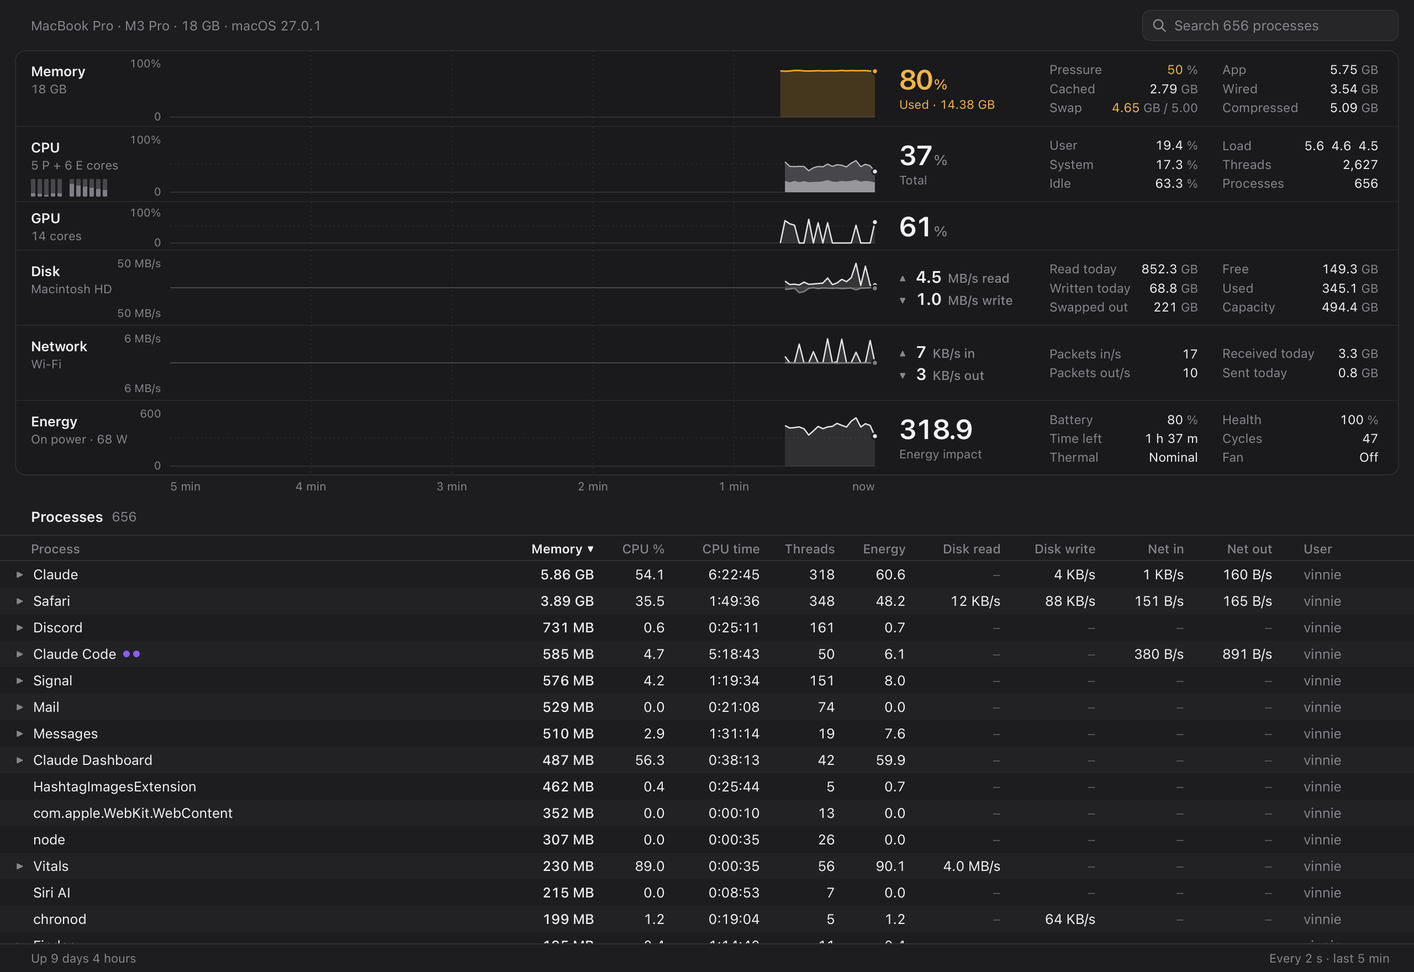
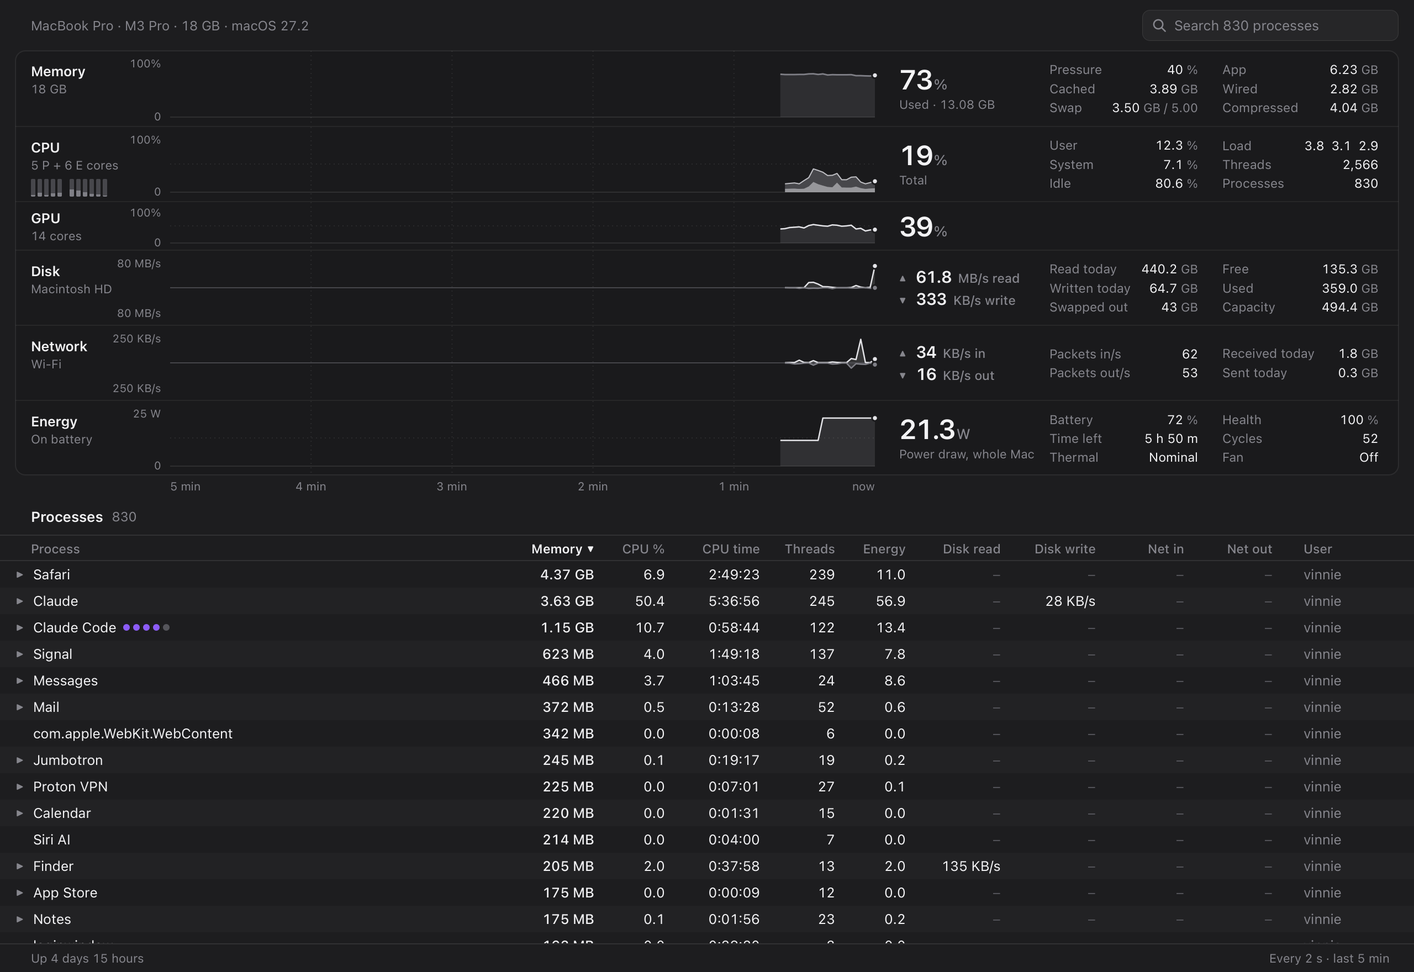
Energy card: show the whole Mac's power draw in watts
The card showed the energy impact score (sum of per-app CPU% plus wakeups)
with no unit, so 129.1 read as nothing in particular. It now shows
PowerTelemetryData SystemLoad in W, with a powerW history for the chart.
Macs without a battery keep the score, labelled "Energy score". The app
list keeps the per-app score; Help explains both. The charger line says
"W charger" so it isn't read as the draw.

diff --git a/Resources/sample.js b/Resources/sample.js
@@ -40,7 +40,7 @@
       history: series(120, 3, function (t, r) { return 31 + Math.sin(t * 9) * 5 + (r() - .5) * 12; })
     },
     gpu: { pct: 9, history: series(120, 5, function (t, r) { return 8 + (r() - .5) * 6 + (t > .7 && t < .75 ? 7 : 0); }) },
-    energy: { batteryPct: 100, pluggedIn: true, charging: false, fullyCharged: true, adapterWatts: 96, cycles: 47, healthPct: 100,
+    energy: { watts: 14.2, batteryPct: 100, pluggedIn: true, charging: false, fullyCharged: true, adapterWatts: 96, cycles: 47, healthPct: 100,
       minutesLeft: 380, thermal: "nominal", fanRPM: 0, impact: null },
     disk: { volume: "Macintosh HD", totalBytes: 494.4e9, usedBytes: 400.1e9, freeBytes: 94.3e9, readBps: 14.2e6, writeBps: 38.6e6,
       readTodayBytes: 61.2e9, writtenTodayBytes: 97.4e9,
@@ -99,14 +99,15 @@
     diskWriteBps: live(13, function (t, r) { var b = r() < .12 ? 30 + r() * 45 : 0; return (24 + r() * 16 + b + 20 * bump(t, .7, .02)) * 1e6; }, snap.disk.writeBps),
     netInBps: live(17, function (t, r) { var b = r() < .1 ? 2 + r() * 3.5 : 0; return (1.4 + r() * 1.6 + b + 3 * bump(t, .55, .03)) * 1e6; }, snap.network.inBps),
     netOutBps: live(19, function (t, r) { var b = r() < .06 ? .5 + r() * .8 : 0; return (.18 + r() * .25 + b) * 1e6; }, snap.network.outBps),
-    energyImpact: live(23, function (t, r) { return 82 + (r() - .5) * 12 + 26 * bump(t, .7, .025) + 10 * bump(t, .22, .02); }, snap.energy.impact, 10)
+    energyImpact: live(23, function (t, r) { return 82 + (r() - .5) * 12 + 26 * bump(t, .7, .025) + 10 * bump(t, .22, .02); }, snap.energy.impact, 10),
+    powerW: live(31, function (t, r) { return 11.5 + (r() - .5) * 2 + 9 * bump(t, .7, .025) + 3.5 * bump(t, .22, .02); }, snap.energy.watts, 10)
   };
   // like the real feed: the first point of a rate series has nothing to compare against
   ["diskReadBps", "diskWriteBps", "netInBps", "netOutBps"].forEach(function (k) { snap.live[k][0] = null; });
   var KEYS = Object.keys(snap.live).filter(function (k) { return k !== "stepSec"; });
 
   // ?fresh: right after launch, one point per series (?fresh=12 keeps 12)
-  // ?gaps: energy impact null while no page was showing (a long run of nulls), plus a short gap in CPU
+  // ?gaps: energy impact and watts null while no page was showing (a long run of nulls), plus a short gap in CPU
   var q = location.search + location.hash;
   var fresh = /fresh(?:=(\d+))?/.exec(q);
   if (fresh) {
@@ -119,6 +120,10 @@
     for (var i = 0; i < E.length - 18; i++) E[i] = null;
     for (i = E.length - 3; i < E.length; i++) E[i] = null;
     snap.energy.impact = null;
+    var W = snap.live.powerW;
+    for (i = 0; i < W.length - 18; i++) W[i] = null;
+    for (i = W.length - 3; i < W.length; i++) W[i] = null;
+    snap.energy.watts = null;
     var C = snap.live.cpuUserPct, Cs = snap.live.cpuSystemPct;
     for (i = 60; i < 75 && i < C.length; i++) { C[i] = null; Cs[i] = null; }
   }
@@ -149,11 +154,12 @@
       n.inBps = (1.4 + r() * 1.6 + (r() < .1 ? 2 + r() * 3.5 : 0)) * 1e6;
       n.outBps = (.18 + r() * .25 + (r() < .06 ? .5 + r() * .8 : 0)) * 1e6;
       if (e.impact != null || r() < .3) e.impact = Math.round((84 + (r() - .5) * 10) * 10) / 10;
+      if (e.watts != null || r() < .3) e.watts = Math.round((12 + (r() - .5) * 2.4) * 10) / 10;
       m.usedBytes = Math.max(15.6, Math.min(17.2, m.usedBytes / G + (r() - .5) * .12)) * G;
       push("pressurePct", m.pressurePct); push("memUsedPct", Math.round(m.usedBytes / m.totalBytes * 1000) / 10); push("swapUsedBytes", m.swapUsedBytes);
       push("cpuUserPct", c.userPct); push("cpuSystemPct", c.systemPct); push("gpuPct", snap.gpu.pct);
       push("diskReadBps", d.readBps); push("diskWriteBps", d.writeBps); push("netInBps", n.inBps); push("netOutBps", n.outBps);
-      push("energyImpact", e.impact);
+      push("energyImpact", e.impact); push("powerW", e.watts);
     }
   };
 })();

diff --git a/Resources/window.html b/Resources/window.html
@@ -150,7 +150,7 @@ table.pt{width:100%;border-collapse:collapse;table-layout:fixed;font-size:12.5px
   "use strict";
   var V = Vitals, F = V.F, $ = function (id) { return document.getElementById(id); };
   var GiB = V.GiB, isNum = V.isNum, CAP = V.CAP;
-  var snap = null, L = null, MS = [];
+  var snap = null, L = null, MS = [], useW = false;
 
   /* ================= strip charts ================= */
   function u(v, unit) { return v + "<small> " + unit + "</small>"; }
@@ -168,6 +168,7 @@ table.pt{width:100%;border-collapse:collapse;table-layout:fixed;font-size:12.5px
   function scaleLabel(v, unit) {
     if (unit === "%") return v + "%";
     if (unit === "Bps") { var p = F.rateParts(v); return p[0].replace(/\.0$/, "") + " " + p[1]; }
+    if (unit === "W") return +v.toFixed(1) + " W";
     return String(+v.toFixed(1));
   }
   function sevCls(st) { return st === "crit" ? "c" : st === "warn" ? "w" : ""; }
@@ -192,9 +193,10 @@ table.pt{width:100%;border-collapse:collapse;table-layout:fixed;font-size:12.5px
     { id: "net", opt: { type: "mirror", floor: 1e5, pad: 8 }, unit: "Bps",
       data: function () { return [L.netInBps, L.netOutBps]; },
       tag: function (i) { return pair(L.netInBps[i], L.netOutBps[i]); } },
+    // watts with a battery (renderReadouts sets useW and the unit); the energy impact score without one
     { id: "energy", opt: { type: "single", floor: 10, pad: 8 }, unit: "",
-      data: function () { return [L.energyImpact]; },
-      tag: function (i) { return isNum(L.energyImpact[i]) ? L.energyImpact[i].toFixed(1) : "–"; } }
+      data: function () { return [useW ? L.powerW : L.energyImpact]; },
+      tag: function (i) { var v = (useW ? L.powerW : L.energyImpact)[i]; return isNum(v) ? v.toFixed(1) + (useW ? " W" : "") : "–"; } }
   ];
   CH.forEach(function (c) {
     var row = $("ch-" + c.id);
@@ -220,6 +222,7 @@ table.pt{width:100%;border-collapse:collapse;table-layout:fixed;font-size:12.5px
 
   function drawCharts(s) {
     L = V.liveOf(s); MS = V.memSev(s, L);
+    useW = V.useWatts(s, L); CH[5].unit = useW ? "W" : "";
     var ms = V.memState(s);
     layout();
     CH.forEach(function (c) {
@@ -306,9 +309,9 @@ table.pt{width:100%;border-collapse:collapse;table-layout:fixed;font-size:12.5px
 
     var thermal = { nominal: "Nominal", fair: "Fair", serious: "Serious", critical: "Critical" }[e.thermal] || "–";
     var hasBatt = isNum(e.batteryPct);
-    $("sub-energy").textContent = e.pluggedIn ? "On power" + (e.adapterWatts ? " · " + e.adapterWatts + " W" : "") : hasBatt ? "On battery" : "";
-    var imp = V.now(e.impact, L.energyImpact);
-    CH[5].ro.innerHTML = bigOne(isNum(imp) ? imp.toFixed(1) : "–", "", "Energy impact") +
+    $("sub-energy").textContent = e.pluggedIn ? "On power" + (e.adapterWatts ? " · " + e.adapterWatts + " W charger" : "") : hasBatt ? "On battery" : "";
+    var pw = useW ? V.now(e.watts, L.powerW) : V.now(e.impact, L.energyImpact);
+    CH[5].ro.innerHTML = bigOne(isNum(pw) ? pw.toFixed(1) : "–", useW ? "W" : "", useW ? "Power draw, whole Mac" : "Energy score") +
       kv([hasBatt && ["Battery", u(F.pct(e.batteryPct), "%")], hasBatt && ["Time left", isNum(e.minutesLeft) ? F.hm(e.minutesLeft).replace(" min", " m") : "–"], ["Thermal", thermal]]) +
       kv([hasBatt && ["Health", u(F.pct(e.healthPct), "%")], hasBatt && ["Cycles", F.int(e.cycles)],
         isNum(e.fanRPM) && ["Fan", e.fanRPM > 0 ? u(F.int(e.fanRPM), "rpm") : "Off"]]);

diff --git a/Resources/help.html b/Resources/help.html
@@ -129,7 +129,7 @@ p.body b{color:var(--ink);font-weight:600}
     return '<div class="term' + (alert ? " alert sev-" + alert : "") + '"><div class="tt">' + t + '</div><div class="td">' + d + '</div><div class="tn">' + yours + "</div></div>";
   }
   V.onUpdate(function (s) {
-    var m = s.memory || {}, c = s.cpu || {}, d = s.disk || {}, h = s.host || {};
+    var m = s.memory || {}, c = s.cpu || {}, d = s.disk || {}, h = s.host || {}, e = s.energy || {};
     var ms = V.memState(s), sev = ms === "ok" ? "" : ms;
     var topEnergy = V.flat(s.processes).filter(function (p) { return p.kind !== "group" && !(p.children && p.children.length); })
       .sort(function (a, b) { return (b.energy || 0) - (a.energy || 0); })[0];
@@ -145,7 +145,9 @@ p.body b{color:var(--ink);font-weight:600}
       term("Wired", "Memory macOS itself needs and can't move or free. You can't change it.", "Yours: <b>" + F.gb(m.wiredBytes) + " GB</b>"),
       term("App memory", "What your apps are using right now. This is the part you can free by quitting things.", "Yours: <b>" + F.gb(m.appBytes) + " GB</b>"),
       term("Cached files", "Recently used files kept in memory for speed. macOS gives it back the moment an app needs it.", "Yours: <b>" + F.gb(m.cachedBytes) + " GB</b>"),
-      term("Energy impact", "A rough score of how much power an app draws. Higher drains the battery faster. Over 20 is a lot.",
+      term("Power draw", "How much power your whole Mac is using right now, in watts (W), as the Energy chart shows it. Everyday work is roughly 5 to 15 W; heavy work goes well past that. On battery, higher drains it faster. Macs without a battery can't measure this, so their Energy chart shows the energy score instead.",
+        "Yours: <b>" + (V.isNum(e.watts) ? e.watts.toFixed(1) + " W" : "–") + "</b>"),
+      term("Energy impact", "A rough score for one app, in the Energy column of the app list. It has no unit: 100 is about one CPU core kept fully busy. Higher drains the battery faster. Over 20 for one app is a lot.",
         "Highest: <b>" + (topEnergy ? F.esc(V.friendly(topEnergy)) + ", " + F.pct(topEnergy.energy, 1) : "–") + "</b>"),
       term("Load average", "How many jobs are waiting for the CPU, averaged over 1, 5 and 15 minutes. Under " + (cores || "your core count") + " (your core count) is fine.",
         "Yours: <b>" + (c.load || []).map(function (x) { return F.pct(x, 1); }).join(" · ") + "</b>"),

diff --git a/Sources/Vitals/Sampler.swift b/Sources/Vitals/Sampler.swift
@@ -102,6 +102,8 @@ final class Sampler: @unchecked Sendable {
         out["totals"] = ["processes": procs.processes, "threads": procs.threads]
         if var energy = out["energy"] as? [String: Any] {
             energy["impact"] = num(procs.rows.reduce(0) { $0 + ($1.energy ?? 0) }, 1)
+            power = Power.read()
+            energy["watts"] = num(power?.watts, 1)
             out["energy"] = energy
         }
         return out
@@ -202,8 +204,10 @@ final class Sampler: @unchecked Sendable {
             "readTodayBytes": today["diskR"] ?? NSNull(), "writtenTodayBytes": today["diskW"] ?? NSNull(),
         ]
 
-        // Energy
-        if wantProcesses || power == nil {
+        // Energy. The battery is read only while a page shows (and once at launch): watts are null otherwise,
+        // like energy impact, so the chart shows a gap rather than a stale value.
+        let freshPower = wantProcesses || power == nil
+        if freshPower {
             power = Power.read()
             if let rpm = Fan.rpm(), rpm.isFinite, rpm < 100_000 { fanRPM = Int(rpm.rounded()) } else { fanRPM = NSNull() }
         }
@@ -214,7 +218,7 @@ final class Sampler: @unchecked Sendable {
             "adapterWatts": p.adapterWatts ?? NSNull(), "cycles": p.cycles ?? NSNull(),
             "healthPct": p.healthPct ?? NSNull(), "minutesLeft": p.minutesLeft ?? NSNull(),
             "thermal": Power.thermal(), "fanRPM": fanRPM,
-            "impact": impact,
+            "impact": impact, "watts": freshPower ? num(p.watts, 1) : NSNull(),
         ]
 
         // Memory Used (app + wired + compressed, as Activity Monitor) as a % of RAM, one decimal.
@@ -229,6 +233,7 @@ final class Sampler: @unchecked Sendable {
             "cpuUserPct": cpu["userPct"] ?? NSNull(), "cpuSystemPct": cpu["systemPct"] ?? NSNull(),
             "gpuPct": num(gpuPct, 0), "diskReadBps": readBps, "diskWriteBps": writeBps,
             "netInBps": net["inBps"] ?? NSNull(), "netOutBps": net["outBps"] ?? NSNull(), "energyImpact": impact,
+            "powerW": energy["watts"] ?? NSNull(),
         ]
         if gap {
             // The charts place points by index, one slot per 2 s: fill the time away with empty slots so what came

diff --git a/Resources/popover.html b/Resources/popover.html
@@ -82,7 +82,7 @@ hr{border:0;border-top:1px solid var(--line);margin:5px 10px}
   V.onUpdate(function (s) {
     var m = s.memory || {}, c = s.cpu || {}, g = s.gpu || {}, d = s.disk || {}, n = s.network || {}, e = s.energy || {}, h = s.host || {};
     var L = V.liveOf(s), ms = V.memState(s);
-    var MS = V.memSev(s, L), data = [[L.memUsedPct], [L.cpuSystemPct, L.cpuUserPct], [L.gpuPct], [L.diskReadBps, L.diskWriteBps], [L.netInBps, L.netOutBps], [L.energyImpact]];
+    var MS = V.memSev(s, L), data = [[L.memUsedPct], [L.cpuSystemPct, L.cpuUserPct], [L.gpuPct], [L.diskReadBps, L.diskWriteBps], [L.netInBps, L.netOutBps], [V.useWatts(s, L) ? L.powerW : L.energyImpact]];
     strips.forEach(function (st, i) {
       st.size(plots[i].clientWidth, plots[i].clientHeight);
       st.draw(data[i][0], data[i][1], i === 0 && ms !== "ok" ? ms : "", i === 0 ? MS : null);
@@ -99,9 +99,10 @@ hr{border:0;border-top:1px solid var(--line);margin:5px 10px}
     set("r-gpu", "<b>" + F.pct(V.now(g.pct, L.gpuPct)) + "<small>%</small></b>" + (h.gpuCores ? "<span>" + h.gpuCores + " cores</span>" : ""));
     set("r-disk", two(V.now(d.readBps, L.diskReadBps), V.now(d.writeBps, L.diskWriteBps)));
     set("r-net", two(V.now(n.inBps, L.netInBps), V.now(n.outBps, L.netOutBps)));
-    var imp = V.now(e.impact, L.energyImpact);
-    set("r-energy", "<b>" + (isNum(imp) ? imp.toFixed(1) : "–") + "</b><span>" +
-      (isNum(e.batteryPct) ? "Battery " + F.pct(e.batteryPct) + "%" : "Energy impact") + "</span>");
+    // watts with a battery; the energy impact score on Macs without one
+    var useW = V.useWatts(s, L), pw = useW ? V.now(e.watts, L.powerW) : V.now(e.impact, L.energyImpact);
+    set("r-energy", "<b>" + (isNum(pw) ? pw.toFixed(1) : "–") + (useW ? "<small> W</small>" : "") + "</b><span>" +
+      (useW ? "Power draw" : "Energy score") + "</span>" + (isNum(e.batteryPct) ? "<span>Battery " + F.pct(e.batteryPct) + "%</span>" : ""));
 
     var tot5 = m.totalBytes || h.memBytes || 1;
     set("top5", top5(s).map(function (t) {

diff --git a/Resources/app.js b/Resources/app.js
@@ -364,7 +364,12 @@
     }
     var c = s.cpu || {}, d = s.disk || {}, n = s.network || {}, e = s.energy || {};
     return { stepSec: 2, pressurePct: [m.pressurePct], memUsedPct: [used], swapUsedBytes: [m.swapUsedBytes], cpuUserPct: [c.userPct], cpuSystemPct: [c.systemPct],
-      gpuPct: [(s.gpu || {}).pct], diskReadBps: [d.readBps], diskWriteBps: [d.writeBps], netInBps: [n.inBps], netOutBps: [n.outBps], energyImpact: [e.impact] };
+      gpuPct: [(s.gpu || {}).pct], diskReadBps: [d.readBps], diskWriteBps: [d.writeBps], netInBps: [n.inBps], netOutBps: [n.outBps], energyImpact: [e.impact], powerW: [e.watts] };
+  }
+  // The Energy charts show real watts (the whole Mac's draw) when the feed has them: Macs with a battery. Macs
+  // without one, and feeds from before watts existed, show the energy impact score instead.
+  function useWatts(s, L) {
+    return isNum((s.energy || {}).watts) || ((L || {}).powerW || []).some(isNum);
   }
   // current value, or the newest point of its live series when the current one is null. Never a point from
   // before a gap: after a sleep that would show a speed from before it as if it were now.
@@ -378,7 +383,7 @@
   var Vitals = window.Vitals = {
     F: F, note: note, flat: flat, items: items, friendly: friendly, memState: memState, memSev: memSev, swapCls: swapCls, swapWarnAt: swapWarnAt,
     post: post, native: native,
-    Strip: Strip, niceMax: niceMax, liveOf: liveOf, now: now, lastNum: lastNum, CAP: CAP,
+    Strip: Strip, niceMax: niceMax, liveOf: liveOf, useWatts: useWatts, now: now, lastNum: lastNum, CAP: CAP,
     GiB: GiB, MiB: MiB, isNum: isNum,
     get last() { return last; },
     onUpdate: function (fn) { listeners.push(fn); if (last) fn(last); },

diff --git a/Sources/Vitals/Devices.swift b/Sources/Vitals/Devices.swift
@@ -16,6 +16,7 @@ enum Power {
         var cycles: Int?
         var healthPct: Int?
         var minutesLeft: Int?
+        var watts: Double?       // the whole Mac's power draw right now (battery telemetry; nil on Macs without one)
     }
 
     static func read() -> Reading {
@@ -47,9 +48,11 @@ enum Power {
                 ?? (data["FullChargeCapacity"] as? Int)
             if let design, let full, design > 0 { r.healthPct = min(100, Int((Double(full) / Double(design) * 100).rounded())) }
             if r.batteryPct == nil, let c = b["CurrentCapacity"] as? Int { r.batteryPct = c }
-            // Plugged in: how long the battery would last at the Mac's current draw.
+            // SystemLoad is the whole Mac's draw in mW, on battery or plugged in (on battery it matches
+            // |Amperage| × Voltage). Plugged in it also gives how long the battery would last at that draw.
+            let tele = b["PowerTelemetryData"] as? [String: Any] ?? [:]
+            if let mW = tele["SystemLoad"] as? Int, mW > 0, mW < 1_000_000 { r.watts = (Double(mW) / 100).rounded() / 10 }
             if r.pluggedIn == true {
-                let tele = b["PowerTelemetryData"] as? [String: Any] ?? [:]
                 let remaining = (b["AppleRawCurrentCapacity"] as? Int) ?? (data["RemainingCapacity"] as? Int)
                 if let mAh = remaining, let mV = b["Voltage"] as? Int, let loadMW = tele["SystemLoad"] as? Int, loadMW > 500 {
                     let wh = Double(mAh) * Double(mV) / 1e6

diff --git a/Sources/Vitals/SelfTest.swift b/Sources/Vitals/SelfTest.swift
@@ -287,6 +287,9 @@ enum SelfTest {
         check("kick: right after a sample without a page, the page still gets a snapshot", count() == 2, "\(count()) samples")
         check("kick: ...with fresh process rows", impact(restEnd) is NSNull && impact(got) is NSNumber,
               "impact \(String(describing: impact(restEnd))) -> \(String(describing: impact(got)))")
+        let e = got["energy"] as? [String: Any] ?? [:], w = (e["watts"] as? NSNumber)?.doubleValue
+        check("kick: ...and the whole Mac's watts, where there's a battery", !(e["batteryPct"] is NSNumber) || (w.map { $0 > 0.3 && $0 < 400 } ?? false),
+              "watts \(String(describing: e["watts"]))")
         check("kick: ...but no rates over a few ms", got["time"] as? String == restEnd["time"] as? String && read(got) != nil
               && read(got) == read(restEnd) && points(got) == points(restEnd),
               "readBps \(String(describing: read(restEnd))) -> \(String(describing: read(got))), points \(points(restEnd) ?? -1) -> \(points(got) ?? -1)")

diff --git a/scripts/test-pages.js b/scripts/test-pages.js
@@ -32,7 +32,7 @@ function gapSnapshot(base, real, gap) {
   });
   s.disk.readBps = null; s.disk.writeBps = null;
   s.network.inBps = null; s.network.outBps = null;
-  s.energy.impact = null;
+  s.energy.impact = null; s.energy.watts = null;
   return s;
 }
 

diff --git a/HANDOFF.md b/HANDOFF.md
@@ -1,7 +1,34 @@
 # Vitals — handoff
 
-_Last updated 2026-10-25 by Claude: the popover's Memory row shows RAM used / total (asked for by Vinnie), committed bff0c17
-on `main`, pushed, installed and relaunched 2026-10-25 23:09._
+_Last updated 2026-10-31 by Claude: Energy card shows real watts (Vinnie's pick); built and checked, waiting on his OK to
+commit, push and install._
+
+## 2026-10-31: Energy card shows watts (Vinnie picked option A; built and checked, NOT yet committed or installed)
+- Why: the card read "129.1 / Battery 79%" with no unit. That was `energy.impact`, a unitless score: the sum over
+  top-level processes of `cpuPct + 0.02 × wakeups/s` (`Processes.swift` ~L164), 100 ≈ one core busy, and it leaves out
+  root / `_windowserver` rows. Help's "over 20 is a lot" was meant for one app, not the total.
+- Now: `Power.Reading.watts` (`Devices.swift`) = `PowerTelemetryData.SystemLoad` mW → W, one decimal, on battery or
+  plugged in. `energy.watts` and a new live series `powerW` (`Sampler.swift`), read only while a page shows (same as
+  impact; null otherwise, so the chart gaps). `withFreshRows` refreshes watts too, so opening the popover isn't "–".
+- Pages: `V.useWatts(s, L)` (app.js) is true when the feed has watts. Popover row "8.0 W / Power draw / Battery 73%";
+  window big "8.0 W, Power draw, whole Mac", chart scale in W. No battery (desktop Macs) → the old score, labelled
+  "Energy score". The app list's Energy column stays the per-app score. Help: new "Power draw" term; "Energy impact"
+  now says it's per app, no unit, 100 ≈ one core.
+- sample.js has `energy.watts` + `live.powerW`; `?gaps` nulls them too. test-pages.js's gap snapshot nulls watts.
+- Checked 2026-10-31 on battery: `--dump` watts 16 vs ioreg SystemLoad 15967 mW; `--selftest` all passed (new check:
+  watts present and sane where there's a battery); `node scripts/test-pages.js` all passed; off-screen renders of popover
+  and window look right; headless check of the no-battery fallback shows "Energy score", no script errors.
+- The window's Energy subtitle now says "On power · 96 W charger", so the charger's rating isn't read as the draw.
+  `docs/shots/strip-{window,popover}{,-dark}.png` re-rendered (`--warm 40`) to show the new card.
+- Not checked: SystemLoad while plugged in (the old time-left estimate already used it plugged in, so expected fine).
+
+## 2026-10-30: "RAM suddenly halved" checked, not a Vitals bug (no code change)
+- Vinnie saw RAM used drop by about half. At 20:00Z `vm_stat` gave anonymous − purgeable 5.7, wired 2.8, compressor
+  1.2 = 9.6 GiB, which is what Vitals' formula gives. Vitals had been running since Oct 27 (no restart, no reset).
+- Cause, most likely: a throwaway iOS simulator (Pocket Cactus work does `simctl create` throwaways) shut down and was
+  deleted around 19:57Z. Sim crash reports (`"platform":7`) ran until 19:56:57; three sim device folders are gone; load
+  average fell from ~69 to 17. No jetsam kills, no big app quit, no macOS update; the Claude app last restarted 04:57Z.
+- Swap stayed at ~4.2 GB: normal, macOS only pulls it back when needed. Gotcha: `log` is a zsh builtin, use `/usr/bin/log`.
 
 ## 2026-10-25: RAM used / total in the popover
 - `Resources/popover.html`: the Memory row reads "76% used", then "RAM 13.7 / 18 GB", then the swap line. Used is

diff --git a/DATA.md b/DATA.md
@@ -54,7 +54,9 @@ unknown; the page shows "–".
     minutesLeft,                             // on battery: IOPS time to empty; plugged in: estimate at current draw, or null
     thermal: "nominal" | "fair" | "serious" | "critical",   // ProcessInfo.thermalState
     fanRPM,                                  // null if unreadable (page then just omits the fan)
-    impact                                   // sum of the top-level processes' energy right now
+    impact,                                  // sum of the top-level processes' energy right now (unitless score; 100 ≈ one core busy)
+    watts                                    // the whole Mac's draw in W, one decimal: AppleSmartBattery PowerTelemetryData
+                                             // SystemLoad (mW). Null with no battery, and while no page shows (read with the rows)
   },
 
   disk: {
@@ -77,7 +79,8 @@ unknown; the page shows "–".
     cpuUserPct: [..], cpuSystemPct: [..], gpuPct: [..],
     diskReadBps: [..], diskWriteBps: [..],
     netInBps: [..], netOutBps: [..],
-    energyImpact: [..]                       // sum of the top-level processes' energy (same units as Proc.energy)
+    energyImpact: [..],                      // sum of the top-level processes' energy (same units as Proc.energy)
+    powerW: [..]                             // energy.watts. The Energy charts show this when it has numbers, else energyImpact
   },
 
   totals: { processes, threads },

diff --git a/README.md b/README.md
@@ -7,7 +7,9 @@ A menu bar app that shows what Activity Monitor shows, with every stat up front 
   pressure/swap; CPU or GPU: 85%+ for 30 s). Heat or low disk space take over from the dials with a thermometer or
   drive and an amber or red dot. Battery is left to the system's own icon. Preview: `docs/shots/menubar-states-{light,dark}.png`
   (`Vitals --render menubar <out.png> [light|dark]`).
-- **Click it** to open a popover with the short version (Memory reads % used, RAM used / total and swap used / total, in GB of 1024³ like Activity Monitor). **⌃⌥⌘V** (or Open Vitals, ⌘O) opens the full window.
+- **Click it** to open a popover with the short version (Memory reads % used, RAM used / total and swap used / total, in GB of 1024³ like Activity Monitor;
+  Energy reads the whole Mac's power draw in watts, from the battery's own meter. Macs without a battery show the
+  energy impact score there instead: no unit, 100 ≈ one CPU core fully busy, the same score as the app list's Energy column). **⌃⌥⌘V** (or Open Vitals, ⌘O) opens the full window.
 - **Right-click or ⌃-click** it for Open at Login (if macOS wants your OK, it opens Login Items in System Settings),
   Help and Quit. If another app already holds ⌃⌥⌘V, that menu says so.
 - **Help** (⌘?) explains every number in plain English.
